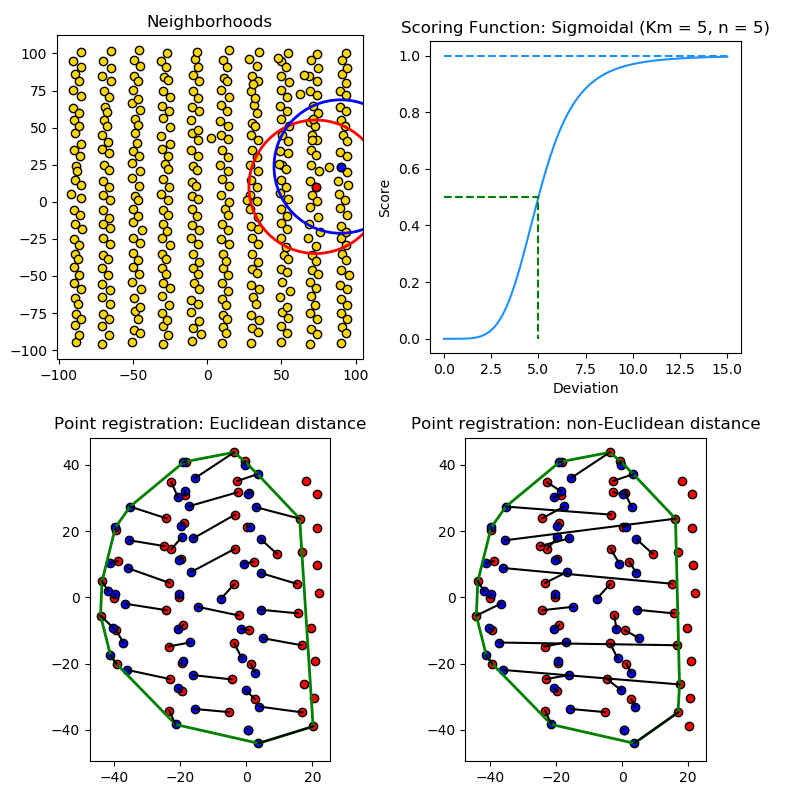
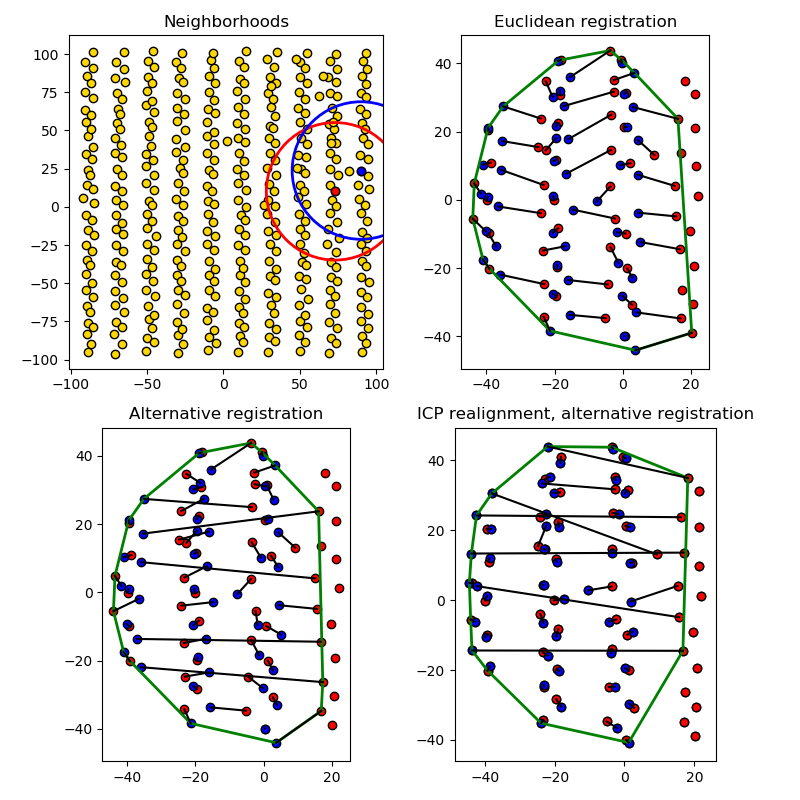
no message

diff --git a/algorithm_visualization.py b/algorithm_visualization.py
@@ -27,7 +27,7 @@ neighb_num = 43
 distance_metric1 = 'euclidean'
 distance_metric2 = lambda p1, p2: score_distance_p1p2(p1, p2, params['ka'], params['coop'])
 d_mecs = [distance_metric1, distance_metric2]
-plot_positions = [(1,0),(1,1)]
+plot_positions = [(0,1),(1,0)]
 exes = np.linspace(0,15,500)
 whys = [distance_metric2([0,0],[0,x]) for x in exes]
 
@@ -104,8 +104,8 @@ for (pax,pay), distance_metric in zip(plot_positions, d_mecs):
     ax[pax][pay].set_aspect('equal')
 
 ax[0][0].set_title('Neighborhoods')
-ax[1][0].set_title('Point registration: Euclidean distance')
-ax[1][1].set_title('Point registration: non-Euclidean distance')
+ax[0][1].set_title('Euclidean registration')
+ax[1][0].set_title('Alternative registration')
 
 """
 ax[1][1].scatter(set_1[:, 0], set_1[:, 1], color='red', edgecolors='black')
@@ -158,17 +158,68 @@ for p in range(min([len(s1), len(s2)])):
     ax[pax][pay].plot([s1[p, 0], s2[assignment[p], 0]], [s1[p, 1], s2[assignment[p], 1]], 'k')
 """
 
-ax[0,1].plot(exes,whys,color='dodgerblue')
-ax[0,1].set_aspect(15)
-ax[0,1].set_title(f'Scoring Function: Sigmoidal (Km = {params["ka"]}, n = {params["coop"]})')
-ax[0,1].set(xlabel='Deviation', ylabel='Score')
-ax[0,1].plot([0,max(exes)], [1,1], '--', color='dodgerblue')
-ax[0,1].plot([0,params['ka'],params['ka']], [0.5,0.5,0], '--', color='green')
+## ICP REALIGNMENT
+t, distances, iterations = icp(set_2, set_1, distance_metric=distance_metric2)
+C = np.ones((len(set_2), 3))
+C[:, 0:2] = np.copy(set_2)
+set_2_readj = np.dot(t, C.T).T
+## END ICP REALIGNMENT
+
+ax[1][1].set_title(f'ICP realignment + alternative registration')
+ax[1][1].scatter(set_1[:,0], set_1[:,1], color='red', edgecolors='black')
+ax[1][1].scatter(set_2_readj[:,0], set_2_readj[:,1], color='blue', edgecolors='black')
+ax[1][1].set_aspect('equal')
+
+# register the realigned points
+set_2 = set_2_readj[:,0:2]
+pax = 1
+pay = 1
+ax[pax][pay].scatter(set_1[:, 0], set_1[:, 1], color='red', edgecolors='black')
+ax[pax][pay].scatter(set_2[:, 0], set_2[:, 1], color='blue', edgecolors='black')
+
+swapped = False
+s1, s2 = set_1, set_2
+if len(set_1) > len(set_2):
+    s1, s2 = set_2, set_1
+    swapped = True
+
+C = cdist(s1, s2, metric=distance_metric2)
+_, assignment = linear_sum_assignment(C)
+
+#  some points in s2 may not be matched. We need to exclude them from the convex hull
+assigned_coords = [s2[i] for i in assignment]
+pared_s2 = assigned_coords.copy()
+unpaired_cords = [s for i, s in enumerate(s2) if i not in assignment]
+assigned_coords.extend(s1)  # we know all of s1 is matched because its length is always < s2
+assigned_coords = np.array(assigned_coords)
+try:
+    hull = scipy.spatial.ConvexHull(assigned_coords)
+    unpaired_cords_in_hull = [s for s in unpaired_cords if in_hull(s, hull.points)]
+except scipy.spatial.qhull.QhullError:
+    hull = None
+    unpaired_cords_in_hull = unpaired_cords
+
+n_smaller = len(s1)
+n_bigger = len(s2)
+n_unpaired = len(unpaired_cords)
+n_unpaired_in_hull = len(unpaired_cords_in_hull)
+deviations = [distance(p, s2[assignment[i]]) for i, p in enumerate(s1)]
+if distance_metric is not 'euclidean':
+    scored_vals = [distance_metric(p, s2[assignment[i]]) for i, p in enumerate(s1)]
+else:
+    scored_vals = deviations
+
+for simplex in hull.simplices:
+    ax[pax][pay].plot(assigned_coords[simplex, 0], assigned_coords[simplex, 1], 'k-', color='green', lw=2)
+
+for p in range(min([len(s1), len(s2)])):
+    ax[pax][pay].plot([s1[p, 0], s2[assignment[p], 0]], [s1[p, 1], s2[assignment[p], 1]], 'k')
+
+ax[pax][pay].set_aspect('equal')
 
 plt.tight_layout()
 plt.close()
 fig.savefig(outloc)
-
 
 
 fig, ax = plt.subplots(1, 1, figsize=(8, 8))
@@ -181,19 +232,3 @@ ax.plot([0,params['ka'],params['ka']], [0.5,0.5,0], '--', color='green')
 plt.close()
 fig.savefig(outloc2)
 
-## ICP REALIGNMENT
-t, distances, iterations = icp(set_2, set_1, distance_metric=distance_metric2)
-C = np.ones((len(set_2), 3))
-C[:, 0:2] = np.copy(set_2)
-set_2_readj = np.dot(t, C.T).T
-
-fig, ax = plt.subplots(1, 1, figsize=(8, 8))
-ax.plot(exes,whys,color='dodgerblue')
-ax.set_aspect('equal')
-ax.set_title(f'ICP Realignment')
-ax.scatter(set_1[:,0], set_1[:,1], color='red', edgecolors='black')
-ax.scatter(set_2_readj[:,0], set_2_readj[:,1], color='blue', edgecolors='black')
-plt.close()
-## ICP REALIGNMENT
-
-fig.savefig(outloc3)
